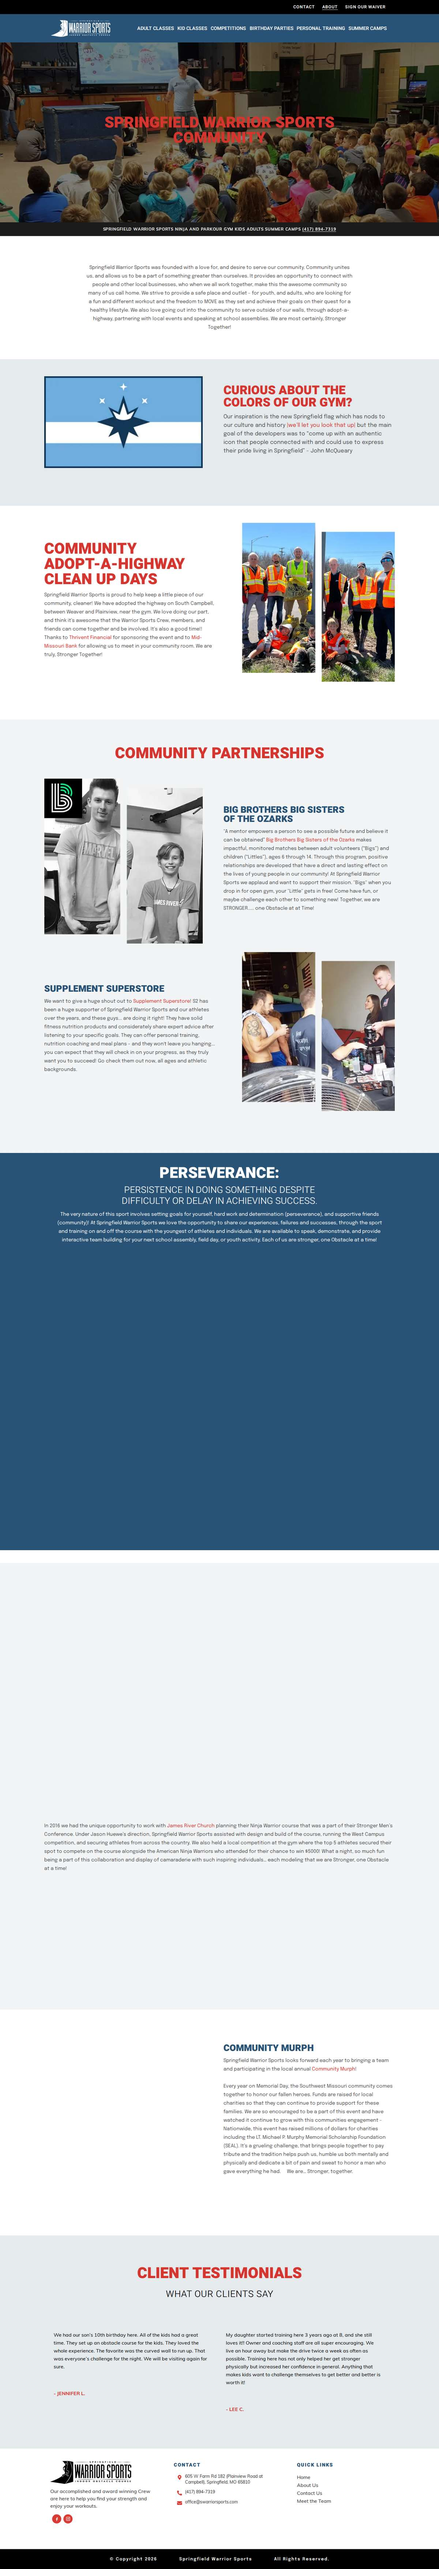
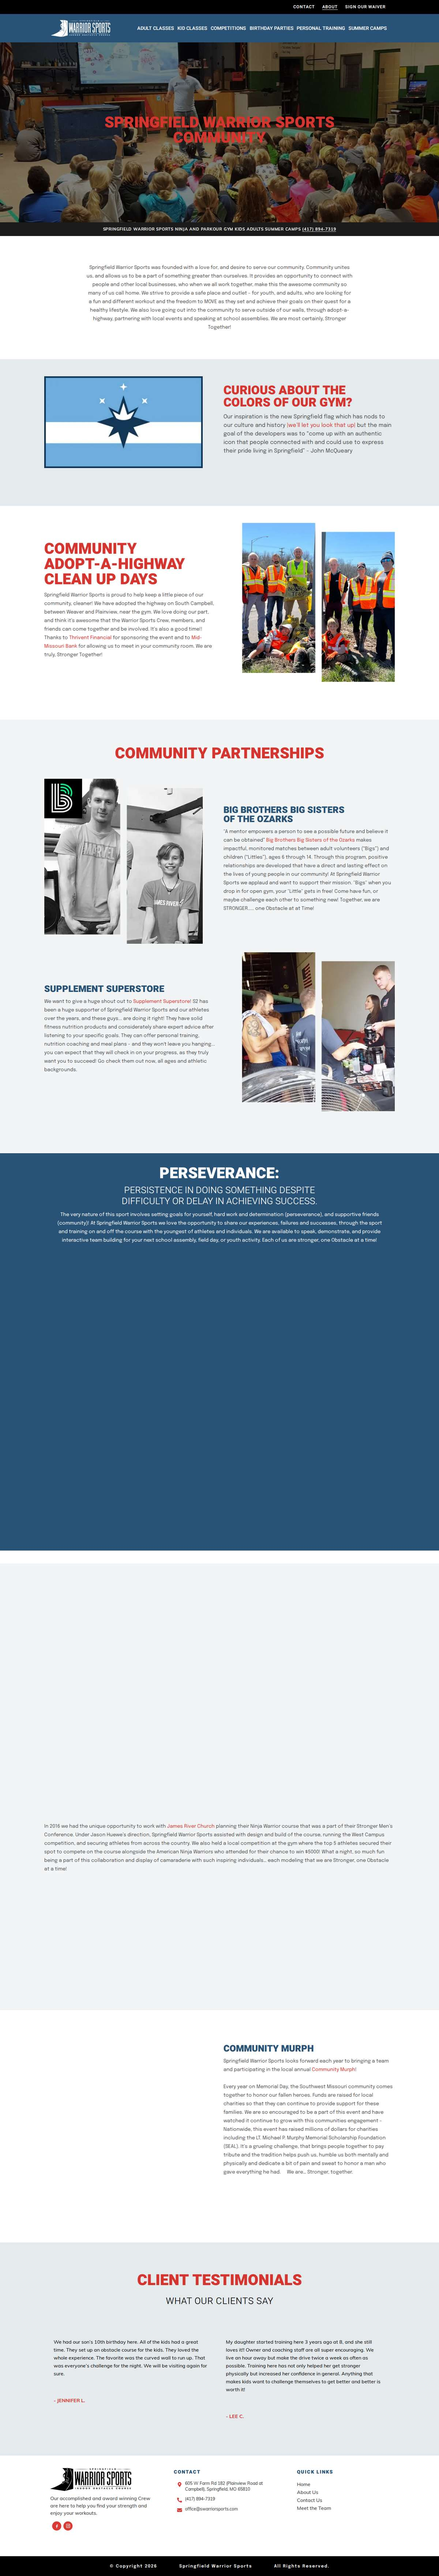
Color the home bullet separators and use live spacing above the About testimonials.
The desktop dots use live's rgb(219, 58, 52) with six non-breaking spaces on each side, and the line is no longer justified. About's testimonials margin is 0, with the Murph section's 90px bottom padding holding the white run.

diff --git a/src/styles/global.css b/src/styles/global.css
@@ -394,7 +394,10 @@ a {
   letter-spacing: 0;
   line-height: 1.5;
   text-align: center;
-  text-align-last: justify;
+  white-space: nowrap;
+}
+.bullet-line .dot {
+  color: rgb(219, 58, 52);
 }
 .bullet-line a {
   display: inline;
@@ -456,7 +459,7 @@ a {
     align-items: center;
     padding: 20px;
   }
-  .bullet-line { margin: 0 auto; }
+  .bullet-line { width: max-content; max-width: none; margin: 0 auto; }
 }
 
 .trust {

diff --git a/docs/qa/layout-report.md b/docs/qa/layout-report.md
@@ -8498,14 +8498,12 @@ Total differences: 8357
 
 ## Notes
 
-Gate v2.15, round 13. Model: Grok 4.7. The live map, the scripts, the tolerances, and PIXEL_TOL were not edited. No allow entries were added. v2.14 accepts a gap across the trust bar with or without the bar counted. v2.15 counts any flat run of 120px or more, so a gradient band is included.
+Gate v2.15, round 14. Model: Grok 4.7. The live map, the scripts, the tolerances, and PIXEL_TOL were not edited. No allow entries were added. v2.15 counts any flat run of 120px or more.
 
-On v2.13 the round 12 pages were home 3/3/0, about 2/2/1, kids-classes 0/0/4, and the site total was 8,211. On v2.15, after this round, home is 3/3/0, about is 2/2/1, and kids-classes is 0/0/3. The site total is 8,357. The extra lines on the other pages are the new flat-run check on screenshots this round did not change. Home, about, and kids-classes did not gain a line. The Vercel preview of `a19d102` measures the same: home 3/3/0, about 2/2/1, kids-classes 0/0/3.
+On v2.15, home is 3/3/0, about is 2/2/1, and kids-classes is 0/0/3 (1920/1280/390). The site total stays 8,357. No other page rose. The lines still open are the same wraps as round 13.
 
-The testimonials section uses live's padding, 90px on top and 80px on the bottom. Live's horizontal padding is 20px, which is already the content column's gutter. The background stays live's `linear-gradient(#e5eaed, #e5eaed)`. The slider's min-height is live's carousel box: home 401px from 800px up and 382px below, about 375px and 331px. Those are `--tcb-cwv-height-d` and `--tcb-cwv-height-m`.
+The desktop home bullet line uses live's separators. `--tcb-color-0` computes to rgb(219, 58, 52), and each ● is that color. Six non-breaking spaces sit on each side of every ●, inside strong. The line is not justified. It measures 835px wide against live's 827px, one line, at x=543 against live's 546 at 1920 and x=223 against 226 at 1280. The phone list is unchanged, and home at 390 matches.
 
-On the PNG the grey is 713px against live's 715px at home 1920 and 1280, 642px against 654px at home 390, 699px against 689px at about 1920 and 1280, and 595px against 603px at about 390. Home's section margin is 0, which is live's. About keeps 27px of margin above the grey from 800px up. Live's margin is 0. Dropping that 27px makes the white run above the grey 714px against live's 795px, past the band limit, so the 27px stays. At 390 that margin is 0.
-
-The lines still open are wraps, at live's size, width, and letter-spacing. Home at 1920 and 1280: "We believe" is 3 lines against live's 2, and the two testimonials are 5 against 4 and 7 against 6. About at 1920 and 1280 is those same two testimonials. About at 390: the James River paragraph is 19 lines against live's 18. Kids Classes at 390: the preschool paragraph is 9 lines against 8, and the parkour paragraph is 14 against 13. The background behind "FUN AND CHALLENGING" is rgb(20, 20, 24) against live rgb(23, 40, 50), on the hero photo, which has no overlay. v2.14 accepts the phone gap across the trust bar.
+About's testimonials margin is 0, which is live's. From 800px up, the Community Murph section's padding-bottom is live's 90px, so the white above the grey is the section's own padding. On the PNG that white run is 762px against live's 795px. The band limit is 80px, and the gate does not flag it. "CLIENT TESTIMONIALS" is at y=7444 against live's 7528. The gap from the Murph paragraph is 306px against live's 272px. Below 800px the margin was already 0. Live's phone padding-bottom is 70px against the build's 42px. Adding that 28px would put the Murph-to-testimonials gap at 202px against live's 161px, past the 40px limit, so the phone padding stays.
 
 The Memorial Day sentence stays in the Community Murph paragraph. Paragraph links stay rgb(219, 58, 52) with no underline.

diff --git a/docs/qa/build-report.md b/docs/qa/build-report.md
@@ -607,6 +607,24 @@ Lighthouse mobile on the local preview, after this batch. Order is performance /
 | About | 98 / 92 / 100 / 100 |
 | Kids classes | 98 / 92 / 100 / 100 |
 
+## Layout parity gate v2.15, round 14
+
+Model: Grok 4.7. The live map, the scripts, the tolerances, and `PIXEL_TOL` were not edited. The report is `docs/qa/layout-report.md`. No allow entries were added.
+
+On v2.15, home is 3/3/0, about is 2/2/1, and kids-classes is 0/0/3. The site total stays 8,357. No other page rose. The open lines are the same wraps as round 13.
+
+The desktop bullet under the home hero uses live's markup. `--tcb-color-0` is rgb(219, 58, 52), and each ● is that color. Six `&nbsp;` sit on each side of every ●, inside `<strong>`. `text-align-last: justify` is gone, so the spaces inside "SUMMER CAMPS" and "BIRTHDAY PARTIES" are normal spaces. The line is 835px wide against live's 827px. The phone list, with its red dots, is unchanged.
+
+About's testimonials section now has margin-top 0, which is live's. From 800px up, the section above it (Community Murph) has padding-bottom 90px, which is live's section padding, so that white space is padding on the white section. The white run is 762px against live's 795px, inside the band limit. Below 800px the margin was already 0. Live's phone padding-bottom is 70px. The build's is 42px. Adding the extra 28px would move the gap from the Murph paragraph to "CLIENT TESTIMONIALS" from 174px to 202px against live's 161px, past the 40px limit, so the phone padding stays.
+
+Lighthouse mobile on the local preview, after this batch. Order is performance / accessibility / best practices / SEO.
+
+| Page | Score |
+|---|---|
+| Home | 99 / 100 / 100 / 100 |
+| About | 98 / 92 / 100 / 100 |
+| Kids classes | 98 / 92 / 100 / 100 |
+
 ## Open questions
 
 - Where GF18 should live, if it should be a page at all.
